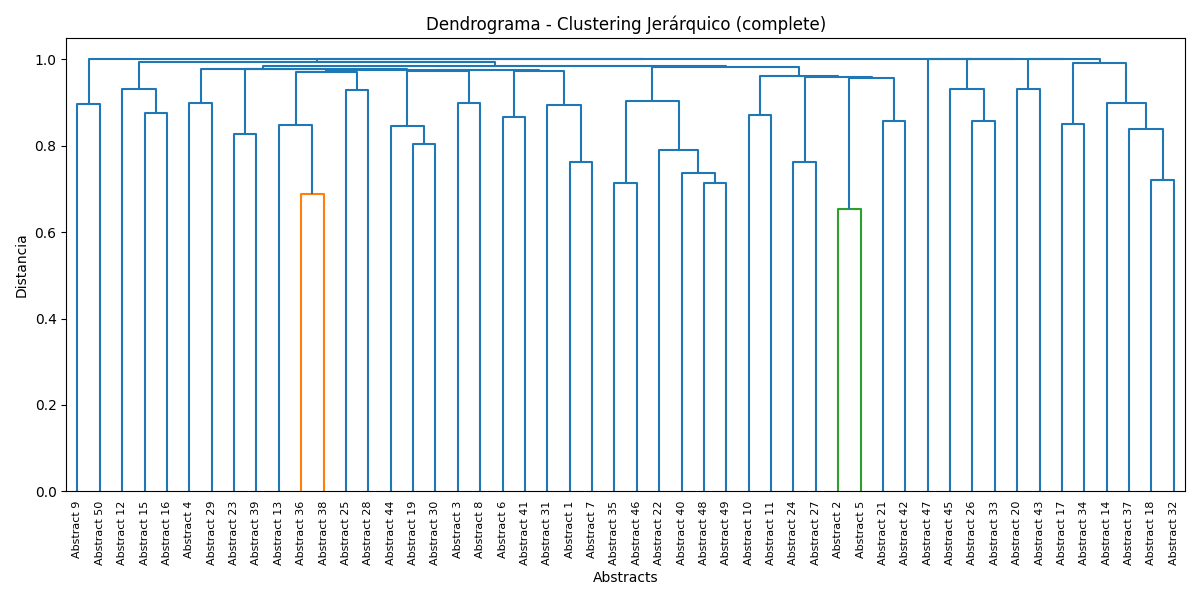
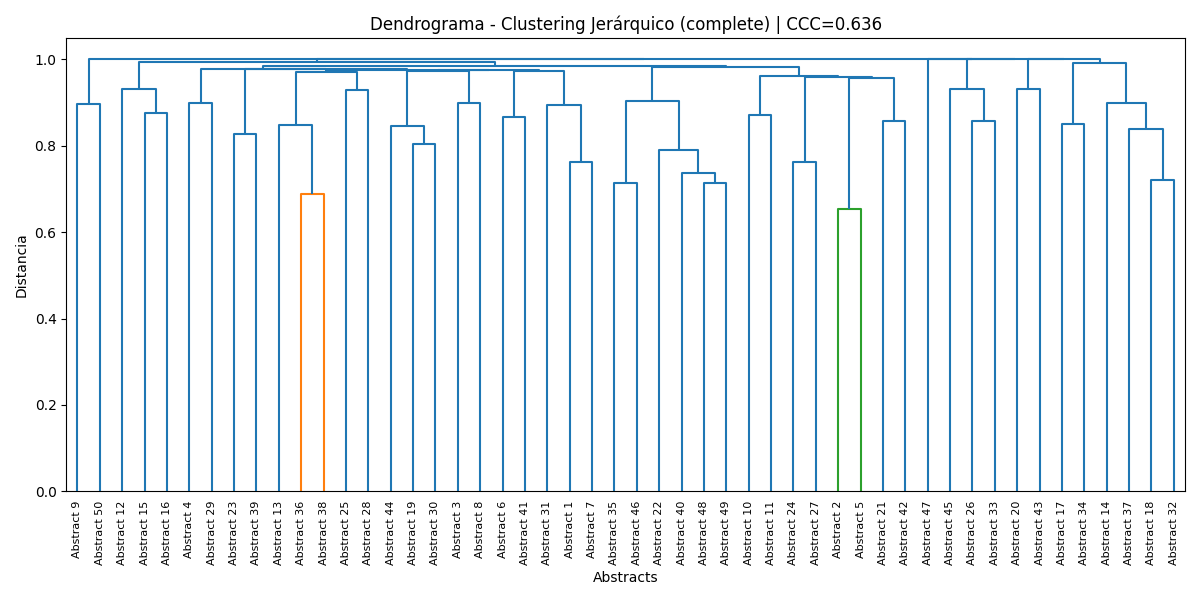
orquestacion del requerimiento 3-4 en un main propio

Changed region(s): [[0.3083, 0.03, 0.74, 0.06]]

diff --git a/Requerimiento3-4/clustering_abstracts.py b/Requerimiento3-4/clustering_abstracts.py
@@ -2,7 +2,7 @@ import os
 import re
 import numpy as np
 import matplotlib.pyplot as plt
-from scipy.cluster.hierarchy import linkage, dendrogram
+from scipy.cluster.hierarchy import linkage, dendrogram, cophenet
 from scipy.spatial.distance import squareform
 from sklearn.feature_extraction.text import TfidfVectorizer
 from sklearn.metrics.pairwise import cosine_similarity
@@ -53,40 +53,69 @@ sim_matrix = cosine_similarity(tfidf_matrix)
 data_graficos_path = os.path.join(os.path.dirname(__file__), 'data_graficos')
 os.makedirs(data_graficos_path, exist_ok=True)
 
-# --- Clustering jerárquico ---
-def clustering_jerarquico(sim_matrix, metodo, labels):
-    print(f"\nGenerando dendrograma con método: {metodo}")
+# --- Preparar matriz de distancias (1 - similitud) ---
+distancia = 1 - sim_matrix
+distancia = np.clip(distancia, 0, None)
 
-    # Convertir similitud a distancia
-    distancia = 1 - sim_matrix
-    distancia = np.clip(distancia, 0, None)
+# Condensar matriz para linkage
+if distancia.shape[0] == 2:
+    dist_condensada = np.array([distancia[0, 1]])
+else:
+    dist_condensada = squareform(distancia, checks=False)
 
-    # Condensar matriz para linkage
-    if distancia.shape[0] == 2:
-        dist_condensada = np.array([distancia[0,1]])
-    else:
-        dist_condensada = squareform(distancia, checks=False)
+# --- Evaluar métodos con Coeficiente Cophenético (CCC) ---
+metodos = ['single', 'complete', 'average']
+resultados = {}
 
+print("\nEvaluando métodos de enlace (CCC más alto es mejor):")
+for metodo in metodos:
     linked = linkage(dist_condensada, method=metodo)
+    ccc, _ = cophenet(linked, dist_condensada)
+    resultados[metodo] = {"linked": linked, "ccc": float(ccc)}
+    print(f"- {metodo}: CCC = {ccc:.3f}")
 
-    # Dendrograma
-    plt.figure(figsize=(12,6))
-    dendrogram(linked, labels=labels, orientation='top', leaf_rotation=90)
-    plt.title(f"Dendrograma - Clustering Jerárquico ({metodo})")
+# Seleccionar mejor método
+mejor_metodo = max(resultados, key=lambda k: resultados[k]["ccc"]) if resultados else None
+if mejor_metodo:
+    print(f"\nMejor método según CCC: {mejor_metodo} (CCC = {resultados[mejor_metodo]['ccc']:.3f})")
+
+# --- Graficar dendrogramas, resaltando el mejor ---
+for metodo in metodos:
+    info = resultados[metodo]
+    plt.figure(figsize=(12, 6))
+    dendrogram(info["linked"], labels=labels_vis, orientation='top', leaf_rotation=90)
+    titulo = f"Dendrograma - Clustering Jerárquico ({metodo}) | CCC={info['ccc']:.3f}"
+    if metodo == mejor_metodo:
+        titulo += " [Mejor]"
+    plt.title(titulo)
     plt.xlabel("Abstracts")
     plt.ylabel("Distancia")
     plt.tight_layout()
 
-    # Guardar el gráfico en la carpeta 'data_graficos'
     grafico_path = os.path.join(data_graficos_path, f'dendrograma_{metodo}.png')
     plt.savefig(grafico_path)
     print(f"Gráfico guardado en: {grafico_path}")
     plt.close()
 
-# --- Ejecutar los 3 métodos ---
-metodos = ['single', 'complete', 'average']
-for m in metodos:
-    clustering_jerarquico(sim_matrix, m, labels_vis)
+# --- Resumen visual: barras de CCC por método ---
+try:
+    plt.figure(figsize=(8, 5))
+    metodos_orden = sorted(metodos, key=lambda m: resultados[m]["ccc"], reverse=True)
+    valores = [resultados[m]["ccc"] for m in metodos_orden]
+    colores = ["tab:green" if m == mejor_metodo else "tab:blue" for m in metodos_orden]
+    plt.bar(metodos_orden, valores, color=colores)
+    plt.ylabel("Coeficiente Cophenético (CCC)")
+    plt.title("Comparación de métodos por CCC (más alto es mejor)")
+    for i, v in enumerate(valores):
+        plt.text(i, v + 0.005, f"{v:.3f}", ha='center', va='bottom', fontsize=9)
+    plt.ylim(0, min(1.0, max(valores) + 0.05))
+    plt.tight_layout()
+    resumen_path = os.path.join(data_graficos_path, 'resumen_ccc_metodos.png')
+    plt.savefig(resumen_path)
+    print(f"Resumen visual guardado en: {resumen_path}")
+    plt.close()
+except Exception as e:
+    print(f"No se pudo generar el resumen visual de CCC: {e}")
 
 # --- Observaciones ---
 print("""

diff --git a/Requerimiento3-4/mainReq3_4.py b/Requerimiento3-4/mainReq3_4.py
@@ -1,0 +1,74 @@
+import os
+import sys
+import runpy
+import traceback
+
+
+def run_script(script_path: str, title: str) -> None:
+	"""
+	Ejecuta un script Python en el mismo intérprete, de forma secuencial.
+	- script_path: ruta absoluta del archivo .py a ejecutar
+	- title: nombre descriptivo para logs
+	Lanza excepción si el script falla.
+	"""
+	print(f"\n=== Ejecutando: {title} ===")
+	print(f"Ruta: {script_path}")
+	if not os.path.isfile(script_path):
+		raise FileNotFoundError(f"No se encontró el script: {script_path}")
+
+	# Ejecutar como si fuera __main__ para respetar código al nivel del módulo
+	runpy.run_path(script_path, run_name="__main__")
+	print(f"=== Finalizado: {title} ===\n")
+
+
+def main() -> int:
+	# Directorio actual (donde está este archivo)
+	base_dir = os.path.dirname(__file__)
+
+	# Asegurar backend no interactivo para matplotlib (evita problemas en entornos sin display)
+	try:
+		import matplotlib
+		matplotlib.use("Agg", force=True)
+	except Exception:
+		# Si fallara, continuamos (los scripts también guardan a archivo)
+		pass
+
+	# Rutas de los scripts a ejecutar en orden
+	scripts = [
+		(os.path.join(base_dir, "clustering_abstracts.py"), "1) clustering_abstracts"),
+		(os.path.join(base_dir, "analisis_frecuencia_abstracts.py"), "2) analisis_frecuencia_abstracts"),
+	]
+
+	# Validar que el archivo de entrada exista para ambos scripts
+	productos_path = os.path.join(os.path.dirname(base_dir), "productosUnificados", "productosUnificados.txt")
+	if not os.path.exists(productos_path):
+		print(
+			f"ERROR: No se encontró el archivo requerido: {productos_path}\n"
+			"Verifica que la ruta y el nombre del archivo sean correctos."
+		)
+		return 1
+
+	# Ejecutar secuencialmente
+	try:
+		for path, title in scripts:
+			run_script(path, title)
+	except SystemExit as e:
+		# Si alguno de los scripts llama a exit(), capturar y convertir a error controlado
+		code = int(e.code) if isinstance(e.code, int) else 1
+		print(f"\nEl script terminó con SystemExit(code={code}).")
+		return code
+	except Exception:
+		print("\nSe produjo una excepción durante la ejecución de los scripts:\n")
+		traceback.print_exc()
+		return 1
+
+	print("Secuencia completada correctamente.\n")
+	# Mostrar dónde quedan los outputs principales
+	data_graficos = os.path.join(base_dir, "data_graficos")
+	print(f"Gráficos esperados en: {data_graficos}")
+	return 0
+
+
+if __name__ == "__main__":
+	sys.exit(main())
+
